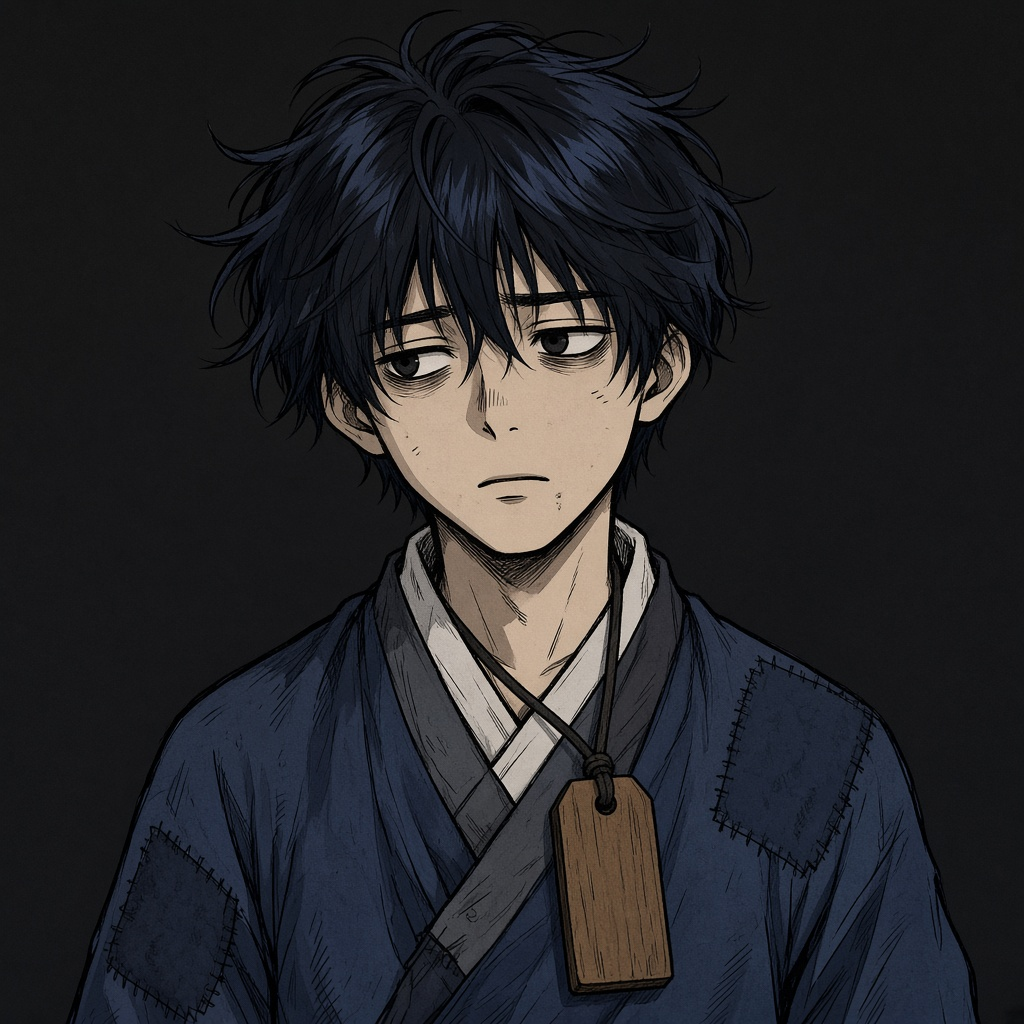
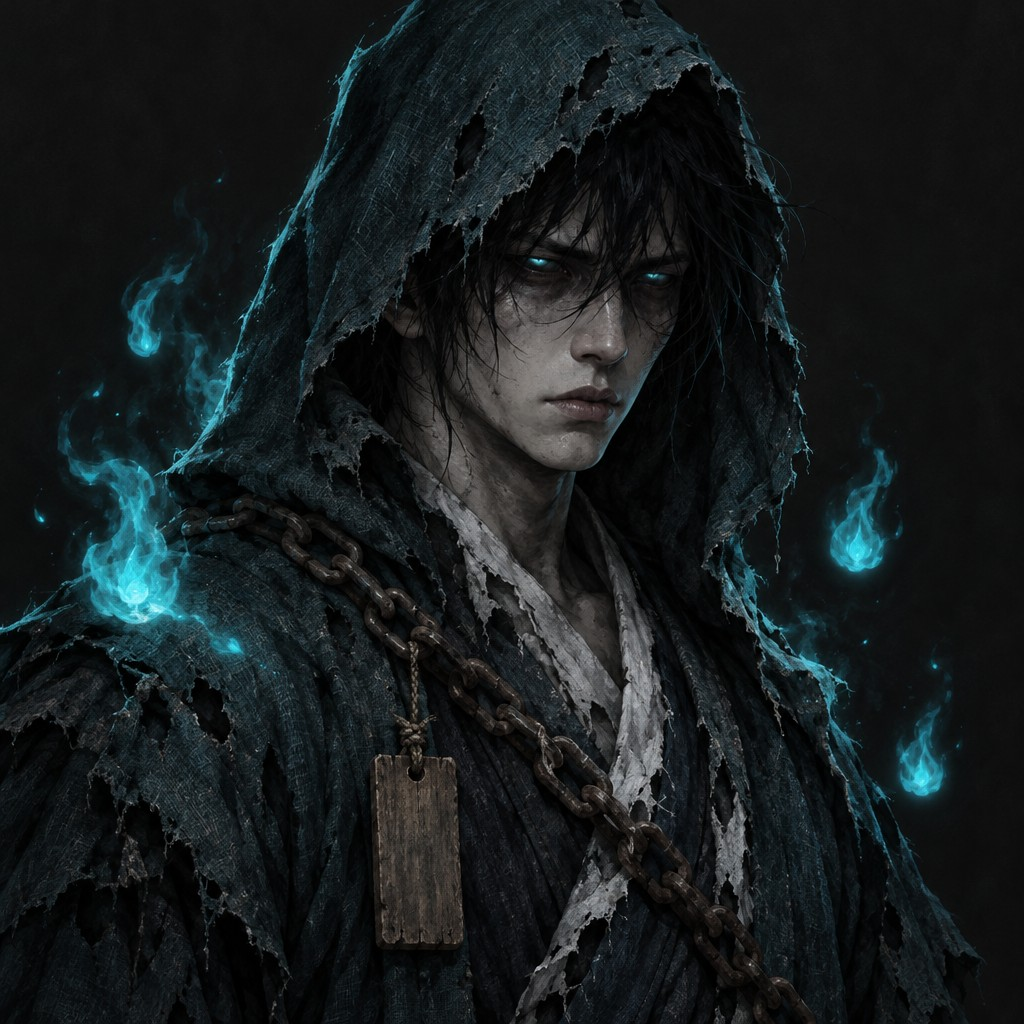
무명·저승사자 전투 시트와 초상화를 어둡고 성숙한 화풍으로 바꾼다.
- img/sheets/hero.jpg, gangrim.jpg: 4프레임(대기·걷기·준비·공격) 새 시트
- img/portraits/hero.jpg, gangrim.jpg: 새 초상화
- sprites.js: 마젠타 배경 시트에서는 어두운 옷을 배경으로 오인해 지우지 않는다

Claude-Session: https://claude.ai/code/session_01VjuNGxx5wxmvTcPiCBoU6q

diff --git a/cheonha.html b/cheonha.html
@@ -2439,9 +2439,15 @@ const Art = (() => {
     for (let p = 0; p < d.length; p += 4) {
       if (isMagenta(d[p], d[p + 1], d[p + 2])) d[p + 3] = 0;
     }
+    /* 테두리가 대부분 마젠타면 마젠타 배경 시트 — 어두운 옷(저승사자 흑의 등)을 배경으로 오인해 지우지 않는다 */
+    let magEdge = 0, edgeN = 0;
+    const tally = (xx, yy) => { edgeN++; if (d[(yy * w + xx) * 4 + 3] === 0) magEdge++; };
+    for (let xx = 0; xx < w; xx += 4) { tally(xx, 0); tally(xx, h - 1); }
+    for (let yy = 0; yy < h; yy += 4) { tally(0, yy); tally(w - 1, yy); }
+    const magentaSheet = magEdge > edgeN * 0.6;
     const isBg = (p) => {
       if (d[p + 3] === 0) return true;
-      return isDarkBg(d[p], d[p + 1], d[p + 2]);
+      return !magentaSheet && isDarkBg(d[p], d[p + 1], d[p + 2]);
     };
     const seen = new Uint8Array(w * h);
     const stack = [];
@@ -2467,7 +2473,7 @@ const Art = (() => {
       if (alpha[n] === 0) continue;
       if (!alpha[n - 1] || !alpha[n + 1] || !alpha[n - w] || !alpha[n + w]) {
         const p = n * 4;
-        if (isMagenta(d[p], d[p + 1], d[p + 2]) || isDarkBg(d[p], d[p + 1], d[p + 2])) d[p + 3] = 0;
+        if (isMagenta(d[p], d[p + 1], d[p + 2]) || (!magentaSheet && isDarkBg(d[p], d[p + 1], d[p + 2]))) d[p + 3] = 0;
         else if (d[p] > 160 && d[p + 2] > 140 && d[p + 1] < 170) d[p + 3] = 0;
       }
     }

diff --git a/index.html b/index.html
@@ -2439,9 +2439,15 @@ const Art = (() => {
     for (let p = 0; p < d.length; p += 4) {
       if (isMagenta(d[p], d[p + 1], d[p + 2])) d[p + 3] = 0;
     }
+    /* 테두리가 대부분 마젠타면 마젠타 배경 시트 — 어두운 옷(저승사자 흑의 등)을 배경으로 오인해 지우지 않는다 */
+    let magEdge = 0, edgeN = 0;
+    const tally = (xx, yy) => { edgeN++; if (d[(yy * w + xx) * 4 + 3] === 0) magEdge++; };
+    for (let xx = 0; xx < w; xx += 4) { tally(xx, 0); tally(xx, h - 1); }
+    for (let yy = 0; yy < h; yy += 4) { tally(0, yy); tally(w - 1, yy); }
+    const magentaSheet = magEdge > edgeN * 0.6;
     const isBg = (p) => {
       if (d[p + 3] === 0) return true;
-      return isDarkBg(d[p], d[p + 1], d[p + 2]);
+      return !magentaSheet && isDarkBg(d[p], d[p + 1], d[p + 2]);
     };
     const seen = new Uint8Array(w * h);
     const stack = [];
@@ -2467,7 +2473,7 @@ const Art = (() => {
       if (alpha[n] === 0) continue;
       if (!alpha[n - 1] || !alpha[n + 1] || !alpha[n - w] || !alpha[n + w]) {
         const p = n * 4;
-        if (isMagenta(d[p], d[p + 1], d[p + 2]) || isDarkBg(d[p], d[p + 1], d[p + 2])) d[p + 3] = 0;
+        if (isMagenta(d[p], d[p + 1], d[p + 2]) || (!magentaSheet && isDarkBg(d[p], d[p + 1], d[p + 2]))) d[p + 3] = 0;
         else if (d[p] > 160 && d[p + 2] > 140 && d[p + 1] < 170) d[p + 3] = 0;
       }
     }

diff --git a/src/sprites.js b/src/sprites.js
@@ -57,9 +57,15 @@ const Art = (() => {
     for (let p = 0; p < d.length; p += 4) {
       if (isMagenta(d[p], d[p + 1], d[p + 2])) d[p + 3] = 0;
     }
+    /* 테두리가 대부분 마젠타면 마젠타 배경 시트 — 어두운 옷(저승사자 흑의 등)을 배경으로 오인해 지우지 않는다 */
+    let magEdge = 0, edgeN = 0;
+    const tally = (xx, yy) => { edgeN++; if (d[(yy * w + xx) * 4 + 3] === 0) magEdge++; };
+    for (let xx = 0; xx < w; xx += 4) { tally(xx, 0); tally(xx, h - 1); }
+    for (let yy = 0; yy < h; yy += 4) { tally(0, yy); tally(w - 1, yy); }
+    const magentaSheet = magEdge > edgeN * 0.6;
     const isBg = (p) => {
       if (d[p + 3] === 0) return true;
-      return isDarkBg(d[p], d[p + 1], d[p + 2]);
+      return !magentaSheet && isDarkBg(d[p], d[p + 1], d[p + 2]);
     };
     const seen = new Uint8Array(w * h);
     const stack = [];
@@ -85,7 +91,7 @@ const Art = (() => {
       if (alpha[n] === 0) continue;
       if (!alpha[n - 1] || !alpha[n + 1] || !alpha[n - w] || !alpha[n + w]) {
         const p = n * 4;
-        if (isMagenta(d[p], d[p + 1], d[p + 2]) || isDarkBg(d[p], d[p + 1], d[p + 2])) d[p + 3] = 0;
+        if (isMagenta(d[p], d[p + 1], d[p + 2]) || (!magentaSheet && isDarkBg(d[p], d[p + 1], d[p + 2]))) d[p + 3] = 0;
         else if (d[p] > 160 && d[p + 2] > 140 && d[p + 1] < 170) d[p + 3] = 0;
       }
     }
